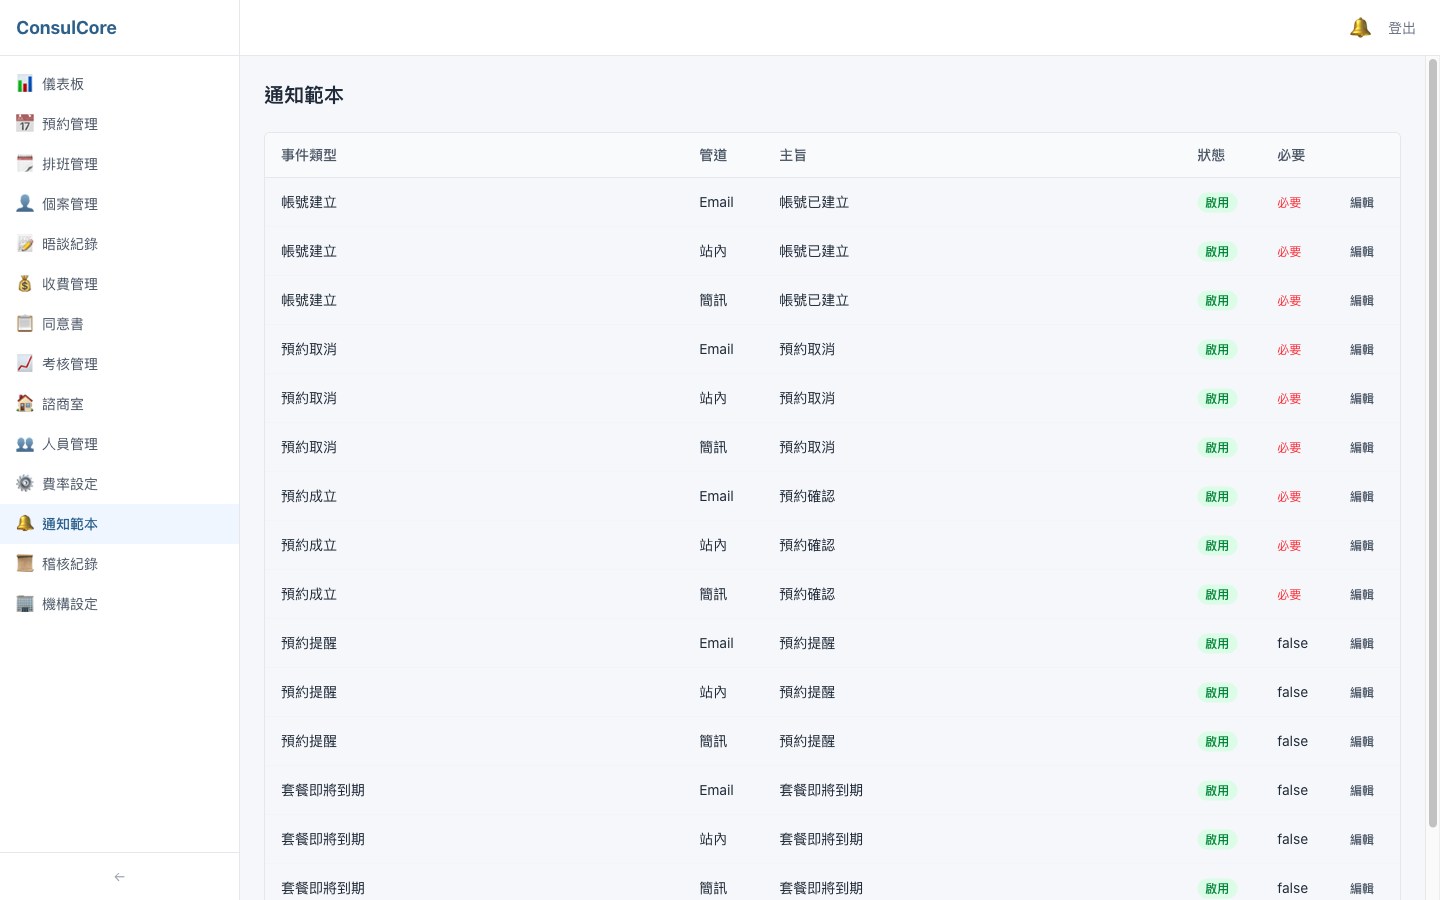
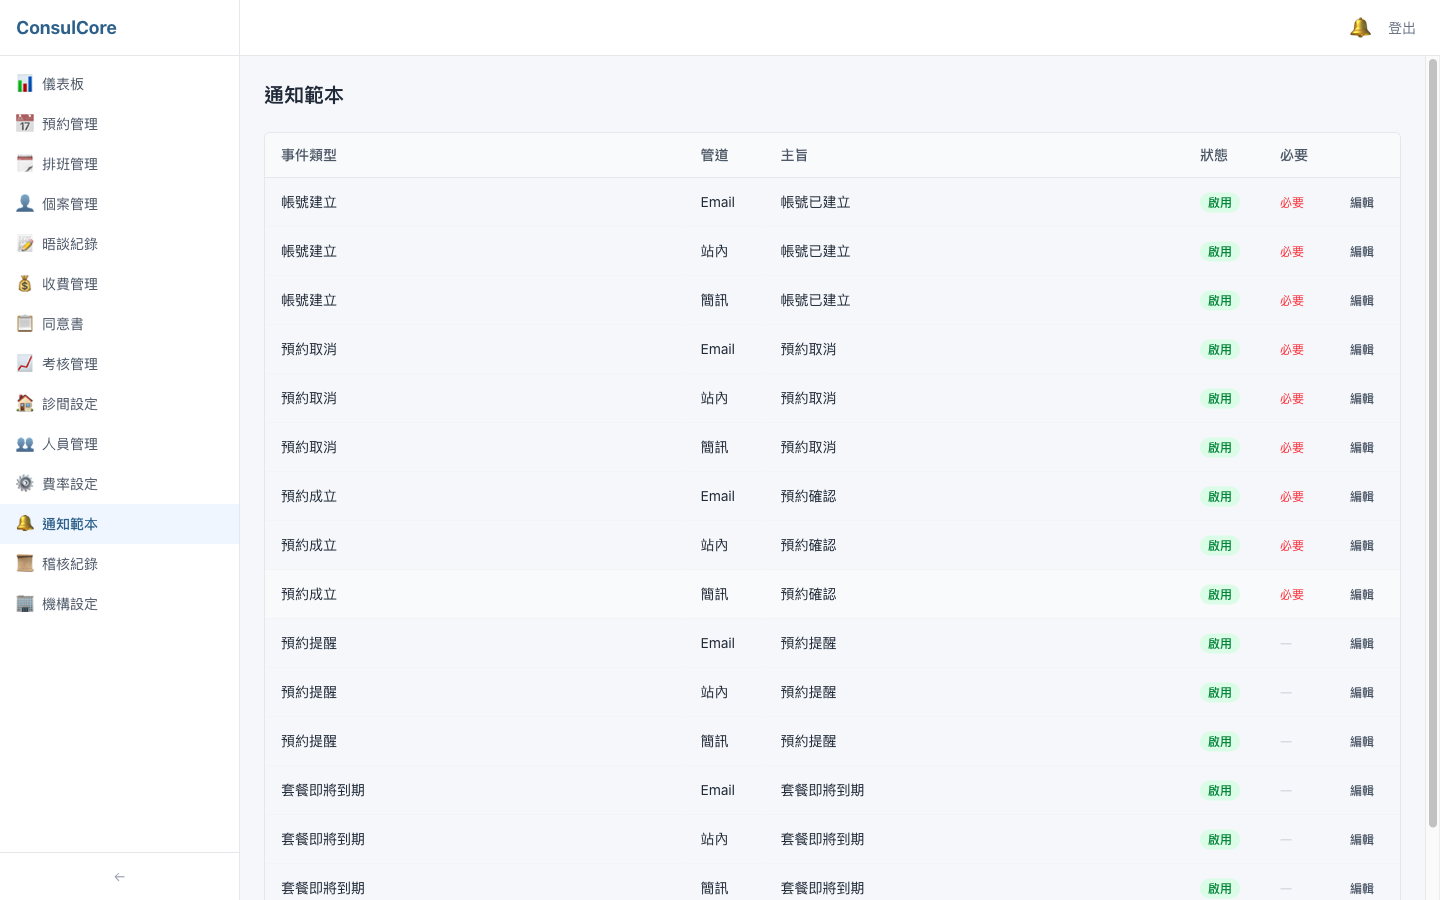
docs: 測試報告更新為修正後的最終結果與前後對照
第一輪的 17 項問題都已修正（前端 #19、後端 #19、#20）。報告改為
最終版本的截圖與數字（201 個測試、37 個畫面），每項附修正前後對照；
README 的功能亮點補上儀表板、狀態圖例、個資遮蔽與機構資料。

diff --git a/docs/test-report.md b/docs/test-report.md
@@ -1,6 +1,8 @@
 # 整合測試報告 — Frontend
 
-> 測試日期：2026-10-12　｜　版本：`main` @ `f70b503`　｜　後端對應版本：`consulcore-backend` `main` @ `eca0dc3`
+> 測試日期：2026-10-12　｜　最終版本：`main` @ `a26a403`　｜　後端對應版本：`consulcore-backend` `main` @ `b83427f`
+>
+> 流程：第一輪測試找出 17 項問題 → 修正（前端 PR #19、後端 PR #19、#20）→ 以最終版本重跑全部檢查與截圖。本報告的數字與截圖皆為最終版本；修正前的畫面放在 `screenshots/before/`。
 >
 > 後端自動化測試、端對端情境與 API 相關問題見後端報告：`consulcore-backend/docs/test-report.md`
 
@@ -10,17 +12,17 @@
 |------|------|------|
 | 型別檢查（`npm run type-check`） | ✅ 無錯誤 | TypeScript 6、vue-tsc |
 | Lint（`npm run lint`） | ✅ 無警告 | |
-| 單元 / 元件測試（`npm test`） | ✅ 174 / 174 通過 | 36 個測試檔 |
+| 單元 / 元件測試（`npm test`） | ✅ 201 / 201 通過 | 47 個測試檔（第一輪 174，修正時新增 27） |
 | 生產建置（`npm run build`） | ✅ 成功 | |
-| 畫面操作測試 | ✅ 33 個畫面，無 console 錯誤、無失敗的 API 請求 | 擁有者、心理師、個案三種身分；桌機 1440 px 與手機 390 px |
+| 畫面操作測試 | ✅ 37 個畫面，無 console 錯誤、無失敗的 API 請求 | 擁有者、心理師、個案三種身份；桌機 1440 px 與手機 390 px |
 | CI（GitHub Actions） | ✅ `main` 通過 | |
 
-畫面操作測試發現 **17 項問題**（功能缺陷 6、顯示與文案 7、體驗建議 4），詳見[發現的問題](#發現的問題)，**尚未修正**。
+第一輪發現的 **17 項問題（功能缺陷 6、顯示與文案 7、體驗建議 4）全部已修正**，詳見[發現的問題與修正](#發現的問題與修正)。
 
 ## 測試方式
 
 1. 後端以全新的暫存 SQLite 啟動，執行 `scripts/seed-demo.py` 建立示範診所「晴光心理諮商所」：擁有者、行政、2 位心理師、6 位個案（2 位有個案端帳號）、兩週排班、12 筆預約（含完成、取消）、SOAP 晤談紀錄、收費、套餐、常態預約、同意書、考核與違規紀錄
-2. 前端以 `npm run dev` 啟動，用 Playwright 依序以三種身分登入，逐頁操作並截圖
+2. 前端以 `npm run dev` 啟動，用 Playwright 依序以三種身份登入，逐頁操作並截圖
 3. 同時監聽瀏覽器 console 與網路請求：全程沒有 console 錯誤或警告，也沒有 4xx / 5xx 的 API 回應
 
 ## 畫面巡覽
@@ -31,7 +33,7 @@
 |---|---|
 | ![登入](./screenshots/01-login.png) | ![儀表板](./screenshots/02-dashboard.png) |
 
-| 預約管理（週檢視） | 排班管理 |
+| 預約管理（週檢視、狀態圖例） | 排班管理 |
 |---|---|
 | ![預約管理](./screenshots/03-appointments.png) | ![排班管理](./screenshots/04-schedule.png) |
 
@@ -55,9 +57,13 @@
 |---|---|
 | ![費率](./screenshots/13-fee-settings.png) | ![通知範本](./screenshots/14-notifications.png) |
 
-| 稽核紀錄 | 機構設定（表單範本） |
+| 稽核紀錄 | 機構設定（基本資料） |
 |---|---|
 | ![稽核](./screenshots/15-audit-log.png) | ![機構設定](./screenshots/16-org-settings.png) |
+
+| 機構設定（表單範本） | 個案稽核 |
+|---|---|
+| ![表單範本](./screenshots/16b-org-forms.png) | ![個案稽核](./screenshots/06e-client-audit.png) |
 
 ### 心理師
 
@@ -77,77 +83,143 @@
 
 ### 手機（390 px）
 
-| 個案首頁 | 個案預約 | 後台預約（日檢視） | 後台選單 | 個案詳情 |
-|---|---|---|---|---|
-| ![](./screenshots/40-mobile-client-dashboard.png) | ![](./screenshots/41-mobile-client-new-appointment.png) | ![](./screenshots/42-mobile-admin-appointments.png) | ![](./screenshots/43-mobile-admin-menu.png) | ![](./screenshots/44-mobile-client-detail.png) |
+| 後台儀表板 | 後台預約（日檢視） | 後台選單 | 個案詳情 |
+|---|---|---|---|
+| ![](./screenshots/45-mobile-admin-dashboard.png) | ![](./screenshots/42-mobile-admin-appointments.png) | ![](./screenshots/43-mobile-admin-menu.png) | ![](./screenshots/44-mobile-client-detail.png) |
 
-## 發現的問題
+| 個案首頁 | 個案預約 |
+|---|---|
+| ![](./screenshots/40-mobile-client-dashboard.png) | ![](./screenshots/41-mobile-client-new-appointment.png) |
+
+## 發現的問題與修正
 
 嚴重度：**高** = 功能無法使用或給出錯誤資訊；**中** = 功能可用但有明顯錯誤；**低** = 顯示、文案或體驗改善。
+有判斷邏輯的修正都先寫出會失敗的測試再修正；純樣式（F10、F12）以截圖驗證。
 
-### A. 功能缺陷
-
-#### F1. 側欄「晤談紀錄」進入沒有指定個案的新增頁（高）
-
-側欄連到 `/admin/sessions/new`，頁面沒有選擇個案的欄位，送出時個案 id 是 0，必然失敗。實際可用的入口是心理師在個案詳情「晤談紀錄」分頁按「新增紀錄」。另外，常用片語的分類列出現捲軸，最後一個分類被截斷。
-
-- 建議：側欄改連到「晤談紀錄清單」（例如我的待完成紀錄），或在新增頁加入個案選擇；片語分類列套用 `scrollbar-none`
-
-![新增晤談紀錄](./screenshots/07-session-new.png)
-
-#### F2. 手機寬度沒有登出按鈕（高）
-
-後台頂部的「登出」在寬度 < 640 px 時隱藏，手機選單裡也沒有，手機上無法登出（個案端正常）。
-
-- 建議：在手機選單底部加入登出
-
-![手機後台](./screenshots/43-mobile-admin-menu.png)
-
-#### F3. 「帳號已建立」通知寫著已廢止的初始密碼規則（高，後端 B1）
-
-見後端報告 B1。
-
-![個案通知](./screenshots/34-client-notifications.png)
-
-#### F4. 個案詳情「預約紀錄」的「查看」按了沒有反應（中）
-
-`ClientDetailView.handleAppointmentClick` 是空函式（註解寫「可擴展為顯示詳情 modal」），按鈕可以點但什麼都不會發生。
-
-- 建議：開啟預約詳情（預約管理頁已有 `AppointmentCard`），或先移除按鈕
-
-![查看按鈕](./screenshots/06f-appointment-view-button.png)
-
-#### F5. 通知範本「必要」欄顯示 `false`（中）
-
-必要的範本顯示紅字「必要」，非必要的直接印出 `false`。
-
-- 建議：非必要顯示「—」或留白
-
-![通知範本](./screenshots/14-notifications.png)
-
-#### F6. 預約完成率趨勢與總覽不一致（中，後端 B2）
-
-見後端報告 B2：同一位心理師總覽 100%、趨勢同月 33.3%。
-
-![指標趨勢](./screenshots/10b-performance-trend.png)
-
-### B. 顯示與文案
-
-| # | 位置 | 問題 | 截圖 |
+| # | 問題 | 嚴重度 | 修正方式 |
 |---|---|---|---|
-| F7 | 個案詳情 | 性別顯示原始值 `female` / `male` | [個案詳情](./screenshots/06a-client-detail.png) |
-| F8 | 人員管理 | 角色顯示英文代碼 `owner`、`therapist`；有帳號的個案也列在人員清單 | [人員管理](./screenshots/12-staff.png) |
-| F9 | 稽核紀錄、個案稽核分頁 | 動作顯示 `login`、`create`；資源 `client_memo` 未翻譯（後端 B3） | [稽核紀錄](./screenshots/15-audit-log.png) |
-| F10 | 側欄 vs 頁面標題 | 側欄寫「諮商室」，頁面標題與其他頁面寫「診間」 | [診間設定](./screenshots/11-rooms.png) |
-| F11 | 機構設定 | 頁名是「機構設定」，內容只有表單範本管理 | [機構設定](./screenshots/16-org-settings.png) |
-| F12 | 收費管理篩選列 | 日期欄標籤字小、其他欄標籤字大；查詢 / 重置 / 匯出按鈕比輸入框矮 | [收費管理](./screenshots/08-billing.png) |
-| F13 | 心理師儀表板 | 「今日預約」只計「已排定」，今天已完成的預約不算，今日排程顯示「今日尚無預約」 | [心理師儀表板](./screenshots/20-therapist-dashboard.png) |
+| F1 | 側欄「晤談紀錄」進入沒有指定個案的新增頁，送出必定失敗 | 高 | 頁首選擇個案，選好前不能存檔；片語分類改為換行 |
+| F2 | 手機寬度沒有登出按鈕 | 高 | 手機選單底部加入登出 |
+| F3 | 「帳號已建立」通知寫著已廢止的初始密碼規則 | 高 | 後端 B1 |
+| F4 | 個案詳情「預約紀錄」的「查看」按了沒有反應 | 中 | 開啟預約詳情（只供檢視） |
+| F5 | 通知範本「必要」欄顯示 `false` | 中 | 非必要顯示「—」 |
+| F6 | 預約完成率趨勢與總覽不一致 | 中 | 後端 B2 |
+| F7 | 性別顯示 `female` | 低 | 顯示中文；新增、編輯改用下拉選單 |
+| F8 | 人員角色顯示英文代碼；個案帳號混在人員清單 | 低 | 角色中文；切換「後台人員／個案帳號」 |
+| F9 | 稽核動作與資源顯示英文代碼 | 低 | 依後端實際寫入的代碼建立完整中文對照 |
+| F10 | 側欄「諮商室」與頁面標題「診間設定」不一致 | 低 | 側欄改為「診間設定」 |
+| F11 | 「機構設定」只有表單範本，機構資料無法修改 | 低 | 新增「基本資料」分頁（後端新 API） |
+| F12 | 收費篩選列字級、按鈕高度不一致 | 低 | 改用 AppInput 與預設尺寸按鈕 |
+| F13 | 心理師儀表板「今日預約」不含今天已完成的晤談 | 低 | 計入當天未取消的預約，排程標示狀態 |
+| F14 | 擁有者儀表板只有 4 張數字卡 | 建議 | 加入今日排程與待收款清單 |
+| F15 | 預約行事曆沒有狀態圖例 | 建議 | 加入圖例，顏色與事件共用同一組變數 |
+| F16 | 個案預約時沒標出目前的心理師 | 建議 | 依預約紀錄標出「最近預約的心理師」 |
+| F17 | 身分證字號完整顯示 | 建議 | 預設遮蔽（A******789），按「顯示」才看得到 |
 
-### C. 體驗建議
+### 修正前後對照
 
-| # | 位置 | 建議 | 截圖 |
-|---|---|---|---|
-| F14 | 擁有者儀表板 | 只有 4 張數字卡，畫面大片空白；可加入今日預約清單或近期營收圖 | [儀表板](./screenshots/02-dashboard.png) |
-| F15 | 預約行事曆 | 灰色（已完成）、紅色（已取消）沒有圖例；排班頁有圖例可沿用 | [預約管理](./screenshots/03-appointments.png) |
-| F16 | 個案「預約諮商」 | 提示「建議維持固定心理師」，但沒有標出個案目前的心理師 | [預約諮商](./screenshots/32-client-new-appointment.png) |
-| F17 | 個案詳情 | 身分證字號完整顯示；可預設遮罩、點擊才顯示並留稽核 | [個案詳情](./screenshots/06a-client-detail.png) |
+#### F1. 晤談紀錄新增頁
+
+| 修正前：沒有地方選個案，片語分類被截斷 | 修正後：頁首選擇個案，分類換行 |
+|---|---|
+| ![](./screenshots/before/07-session-new.png) | ![](./screenshots/07b-session-new-picked.png) |
+
+#### F2. 手機登出
+
+| 修正前 | 修正後 |
+|---|---|
+| ![](./screenshots/before/43-mobile-admin-menu.png) | ![](./screenshots/43-mobile-admin-menu.png) |
+
+#### F3. 「帳號已建立」通知
+
+| 修正前 | 修正後 |
+|---|---|
+| ![](./screenshots/before/34-client-notifications.png) | ![](./screenshots/34-client-notifications.png) |
+
+#### F4. 預約紀錄「查看」
+
+| 修正前：按了沒反應 | 修正後：開啟預約詳情 |
+|---|---|
+| ![](./screenshots/before/06f-appointment-view-button.png) | ![](./screenshots/06f-appointment-view-button.png) |
+
+#### F5. 通知範本「必要」欄
+
+原因：slot 裡只有 `v-if`，條件不成立時 Vue 改顯示 AppTable 的預設內容（原始值）。已檢查其他表格的同類寫法，只剩「操作」欄，沒有對應資料值，不受影響。
+
+| 修正前 | 修正後 |
+|---|---|
+| ![](./screenshots/before/14-notifications.png) | ![](./screenshots/14-notifications.png) |
+
+#### F6. 預約完成率
+
+| 修正前：總覽 100%、趨勢同月 33% | 修正後：一致 |
+|---|---|
+| ![](./screenshots/before/10b-performance-trend.png) | ![](./screenshots/10b-performance-trend.png) |
+
+#### F7、F17. 個案基本資料
+
+| 修正前：`female`、身分證字號完整顯示 | 修正後：「女」、身分證字號遮蔽 |
+|---|---|
+| ![](./screenshots/before/06a-client-detail.png) | ![](./screenshots/06a-client-detail.png) |
+
+#### F8. 人員管理
+
+個案帳號的重設密碼、停用只在人員管理有入口，所以不能直接把個案帳號從清單移除（第一次修正時犯了這個錯，已改為切換顯示）。
+
+| 修正前 | 修正後：後台人員 | 修正後：個案帳號 |
+|---|---|---|
+| ![](./screenshots/before/12-staff.png) | ![](./screenshots/12-staff.png) | ![](./screenshots/12b-staff-client-accounts.png) |
+
+#### F9. 稽核紀錄
+
+| 修正前 | 修正後（描述格式見後端 B3） |
+|---|---|
+| ![](./screenshots/before/15-audit-log.png) | ![](./screenshots/15-audit-log.png) |
+
+#### F10、F11. 診間設定名稱、機構基本資料
+
+| 修正前：側欄「諮商室」、機構設定只有表單範本 | 修正後 |
+|---|---|
+| ![](./screenshots/before/16-org-settings.png) | ![](./screenshots/16-org-settings.png) |
+
+#### F12. 收費篩選列
+
+| 修正前 | 修正後 |
+|---|---|
+| ![](./screenshots/before/08-billing.png) | ![](./screenshots/08-billing.png) |
+
+#### F13. 心理師儀表板
+
+| 修正前：今日預約 0、「今日尚無預約」 | 修正後 |
+|---|---|
+| ![](./screenshots/before/20-therapist-dashboard.png) | ![](./screenshots/20-therapist-dashboard.png) |
+
+#### F14. 擁有者儀表板
+
+| 修正前 | 修正後 |
+|---|---|
+| ![](./screenshots/before/02-dashboard.png) | ![](./screenshots/02-dashboard.png) |
+
+#### F15. 預約行事曆圖例
+
+| 修正前 | 修正後 |
+|---|---|
+| ![](./screenshots/before/03-appointments.png) | ![](./screenshots/03-appointments.png) |
+
+#### F16. 個案預約
+
+個案端沒有讀取指派關係的權限，以個案自己的預約紀錄推算（今天以前最近一次未取消的，沒有則取最近一筆即將到來的），因此標示為「最近預約的心理師」而不是「你的心理師」。
+
+| 修正前 | 修正後 |
+|---|---|
+| ![](./screenshots/before/32-client-new-appointment.png) | ![](./screenshots/32-client-new-appointment.png) |
+
+## 修正時新增的共用程式
+
+| 檔案 | 用途 |
+|---|---|
+| `utils/labels.ts` | 性別、角色、稽核動作與資源的中文對照（未知代碼照原樣顯示） |
+| `utils/appointmentStatus.ts` | 預約狀態名稱與樣式、今日排程、最近預約的心理師（原本在列表與卡片各有一份） |
+| `components/dashboard/TodaySchedule.vue` | 三種身份儀表板共用的今日排程 |
+| `components/appointment/AppointmentStatusLegend.vue` | 行事曆狀態圖例 |
+| `components/organization/OrganizationProfileForm.vue` | 機構基本資料表單 |

diff --git a/README.md b/README.md
@@ -16,12 +16,14 @@
 
 - **兩種使用者、兩套風格**：機構後台（擁有者、行政、心理師）與個案端（預約、同意書、通知），以 CSS 變數在 Layout 切換風格
 - **多角色**：同一帳號可有多個角色，登入後選擇身份；側欄、路由與按鈕依後端回傳的權限碼顯示
-- **預約與排班**：FullCalendar 週 / 日檢視（手機自動切成日檢視）、排班範本與展班、常態預約
+- **依身份的儀表板**：擁有者看營收、今日排程與待收款；心理師看自己的今日排程與個案
+- **預約與排班**：FullCalendar 週 / 日檢視（手機自動切成日檢視、狀態圖例）、排班範本與展班、常態預約
 - **臨床紀錄**：SOAP / 自由文字晤談紀錄、常用片語、鎖定與解鎖、未存檔離開提醒；動態表單建構器
 - **收費**：自動收費、套餐、折扣、營收報表與 CSV 匯出（Chart.js）
+- **個資與稽核**：身分證字號預設遮蔽、稽核紀錄全中文顯示並可匯出；機構基本資料可自行維護
 - **型別安全的 API 介接**：由後端 `openapi.json` 產生 TypeScript 型別，契約變動時編譯期就會發現
 - **響應式**：手機、平板、桌機皆可操作；表格可橫向捲動、導覽列與選單針對手機調整
-- **測試**：174 個 Vitest 單元 / 元件測試，CI 跑型別檢查、lint、測試與建置
+- **測試**：201 個 Vitest 單元 / 元件測試，CI 跑型別檢查、lint、測試與建置
 
 ## 技術棧
 
@@ -148,4 +150,4 @@ python3 scripts/seed-demo.py      # 另開終端；需要空的資料庫
 
 ## 測試報告
 
-[`docs/test-report.md`](./docs/test-report.md)：自動化檢查結果、33 個畫面的截圖（三種身份、桌機與手機），以及畫面操作時發現的問題。
+[`docs/test-report.md`](./docs/test-report.md)：自動化檢查結果、37 個畫面的截圖（三種身份、桌機與手機），以及畫面操作時發現的 17 項問題與修正前後對照。
